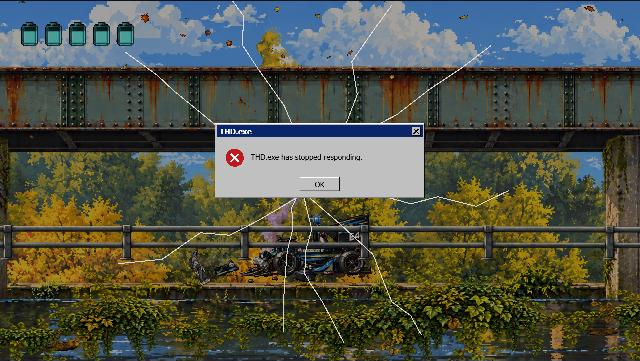
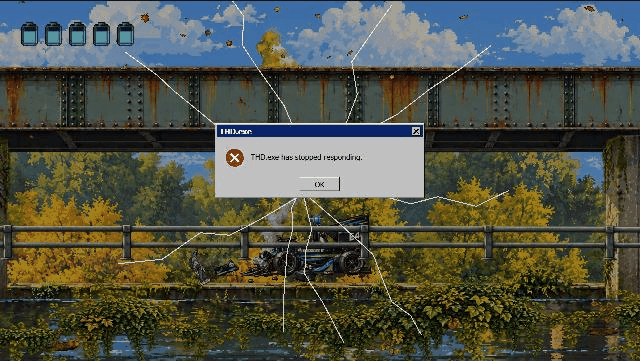
docs: record Region 1 landing, ram, chair moment, encounters and Jenny reads

diff --git a/docs/05-ENEMIES-AND-BOSSES.md b/docs/05-ENEMIES-AND-BOSSES.md
@@ -15,6 +15,7 @@ Every enemy is a real **autonomous** machine from THD – things that already dr
 | **Rover** | THD's autonomous vehicle project (ultrasonic + lidar), yellow wheels | Knee-high (≈ 25 px) | 3 | Patrols a deck. Spots you with its lidar, then charges in a straight line | Lidar turns red, rears up for 0.5 s | Jump over the charge and hit it from behind; guard works |
 | **Crab** | Autonomous six-legged hexapod robot | Waist-high, wide (≈ 40 px) | 4 | Creeps toward you; rears up and stabs with its front legs; can walk under decks | Front legs raised for 0.6 s | Step back, then punish; up-attack when it's on a deck above |
 | **Drone** | Large autonomous quadcopter | 1 m span (≈ 45 px), flies at head height | 8 (chair) / 3 (tray) | Hovers out of reach and drops screws or sparking batteries; dives when you're under it | Red eye flashes and it tilts | **Avoid it** in Region 1 (hide under girders). Kill it later with the tray. Coming back for drones is intended backtracking |
+| *In the game (P7):* | `enemies/rover.ts`, `crab.ts`, `drone.ts`, drawn by `rovers.ts` from the collision spawns | | | Rovers on the decks you walk (rc-0-0: rover-1, -4, -5; rc-1-0: rover-2, -3, -6; rc-2-0: rover-7); crab-1 on the high route, drone-1 over the low route | Crab and drone flash red and play their servo / hum during the tell | |
 | *Later:* Mutant plant | Toxic Garden | – | – | Stationary, spits sap | Mouth swells | Down-slam its head |
 
 All of them: contact damage 1 cell, white hit flash, 3–4 frame knockback, and they stop dead and leak black fluid when defeated.
@@ -69,7 +70,8 @@ Lex's read (A14), which the fight follows: Jenny is a **shielded** enemy. Her no
 - **Charge** does 2 cells. **Parts** do 1. Guarding a charge breaks the guard.
 - The arena is the Rusty Creek boss clearing: one flat girder floor, two walls, the creek below. Falling in is a hazard (−1 cell).
 - **Death:** she stalls, smokes and leaks black fluid. Dexter appears and absorbs it.
-- **In the game** (`enemies/jenny.ts`, `enemies/jennyBoss.ts`, #57): the arena comes from collision, not code: the `boss-gate` box's right edge is the left wall, which closes behind you once you're through, and the floor line under her `jenny` spawn ends at the right wall. Her hit box is the car body without the rear wing, 250 × 70 px inside the ~290 × 134 px sprite, so the hero's 96 px jump clears a charge. A revving Jenny also hurts on contact (1 cell). Clip lengths come from `boss-jenny*.anims.json`. Beating her emits `boss-defeated`, and the `Ending` scene takes over. Dying resets the fight. Dev: `?boss-test` spawns you at the gate.
+- **In the game** (`enemies/jenny.ts`, `enemies/jennyBoss.ts`, #57): the arena comes from collision, not code: the `boss-gate` box's right edge is the left wall, which closes behind you once you're through, and the floor line under her `jenny` spawn ends at the right wall. Her hit box is the car body under the cockpit, 250 × 56 px inside the ~290 × 134 px sprite, and her charge speeds (540 / 600 / 660 px/s) are tuned so a standing full jump (96 px) lets her pass under in the arena (`jumpable()` is unit-tested). A revving Jenny also hurts on contact (1 cell).
+- **What reads (P8, Alexander's playtest):** the **rev** shakes her, puffs exhaust from the tail and flashes her headlight – that is the tell. Her **charge** never passes through you without consequence: you are thrown up (520 px/s) and the way she drives, play the hurt clip, get the usual second of invulnerability, and she brakes to a third of her speed for 0.25 s with a hit-stop and a screen shake. Her **open back** glows orange at the tail – faint while she drives (hits from behind count), bright and pulsing while she is stunned, with the hazard light blinking over it. Every chair hit that lands flashes her white, shakes the screen a little and sparks; a hit on the **armoured nose** clanks, throws grey sparks and bounces you back. **Parts** bounce up to twice, then lie on the floor as hazards for 2.5 s and blink before they vanish. Clip lengths come from `boss-jenny*.anims.json`. Beating her emits `boss-defeated`, and the `Ending` scene takes over. Dying resets the fight. Dev: `?boss-test` spawns you at the gate.
 - What we took from Terraria's Wall of Flesh: one huge shape crossing the whole screen, very readable, and you know exactly what to do after seeing it once.
 
 ## Later bosses

diff --git a/docs/15-PROLOGUE-SLICE.md b/docs/15-PROLOGUE-SLICE.md
@@ -118,10 +118,10 @@ What the first build got wrong, in his words' order, and the workstream that own
 | P2 | It feels like walking *on top of* the world; no grass at the feet | The **hot-dog layering**: far background → far greenery → near greenery → the trail (where you walk) → a grass/plants strip *in front of the trail* that covers the feet → water, rocks → blurred close leaves. The trail carries surface effects (slippery, particles per material) | 7 layers + 6 terrain |
 | P3 | The cut-outs show: leaves, water edges and trees line up wrongly as the layers move | Every layer **rendered complete**: the parts hidden behind nearer layers are painted in (gpt-image-2.5 inpainting per plate), edges cleaned, more bands where the depth needs them | 7 layers |
 | P4 | You outrun Dexter; you spawn left of the entrance while he waits at it | Dexter **leads at the hero's pace** – never overtaken, hops ahead when you close in; the hero starts at the entrance | 8 Dexter |
-| P5 | After the 404 you land on the railway bridge; the cement road under it is gone; two pushes in a row (from behind, then Jenny from the front) confuse | Land on the **creek path**, the cement road under the rail bridge (the clean art has it); Jenny's ram reads as one clear event on that path; the region swap explains itself | 9 Region 1 |
+| P5 | After the 404 you land on the railway bridge; the cement road under it is gone; two pushes in a row (from behind, then Jenny from the front) confuse | Land on the **creek path**, the cement road under the rail bridge (the clean art has it); Jenny's ram reads as one clear event on that path; the region swap explains itself | 9 Region 1 – done in `feature/slice-region1` (landing on the path, one-event ram, crash crossing); the walk line on the path is provisional for 6 |
 | P6 | The hero's movement is fidgety in Rusty Creek; jump-spam feels slow and buggy; idles are stiff | **Hero motion polish**: find the creek jitter (sink/slope/stride on steel), fix jump buffering under spam, more idle life (breathing, poncho sway) | 10 hero motion |
-| P7 | The chair pops in, no idea how to attack; one rover and then nothing | A **pickup moment** (the hero picks it up, a wordless key/button glyph shows the attack); more encounters along the route | 9 Region 1 |
-| P8 | Jenny drives through you – no knockback, nothing happens; parts just fall; unclear how to hurt her | **Jenny reads**: real knockback, a clear tell, a glowing open back while stunned, hit flashes and screen shake, parts that bounce and threaten | 9 Region 1 |
+| P7 | The chair pops in, no idea how to attack; one rover and then nothing | A **pickup moment** (the hero picks it up, a wordless key/button glyph shows the attack); more encounters along the route | 9 Region 1 – done in `feature/slice-region1` (pick-up clip, glint, J/X glyph; 7 rovers, crab, drone) |
+| P8 | Jenny drives through you – no knockback, nothing happens; parts just fall; unclear how to hurt her | **Jenny reads**: real knockback, a clear tell, a glowing open back while stunned, hit flashes and screen shake, parts that bounce and threaten | 9 Region 1 – done in `feature/slice-region1` (throw + brake, rev tell, open back, hit flash/shake/spark, clank, bouncing parts) |
 
 | # | Workstream | Owns |
 | --- | --- | --- |

diff --git a/docs/03-STORY-AND-CAST.md b/docs/03-STORY-AND-CAST.md
@@ -73,9 +73,9 @@ Dexter is the 27 px plush (decision 41), drawn at depth 101 with a 1 px warm rim
 
 ## Region 1 story beats
 
-1. You land in **clean** Rusty Creek: the real creek, rails and the metal bridge. Quiet, no enemies, nothing wrong yet.
-2. On the bridge, **Jenny**, the driverless race car, comes out of nowhere and rams you. You fly back with the same cartoon knockback, and the anomaly activates: the region **turns** into the rust maze and you are back at its start ([02](02-GAME-DESIGN.md)).
-3. The maze is the real tutorial: jumping, climbing, ladders. A plywood chair lies by the path – **pick it up**. First fight: one autonomous rover.
+1. You land in **clean** Rusty Creek on the **creek path** – the cement walk along the water, under the rusted rail bridge. The bridge stays above you as the railway; you never walk on it. Quiet, no enemies, nothing wrong yet.
+2. Further along the path, **Jenny**, the driverless race car, comes down it towards you. One event, under 3 s before the crash window: first only her **headlights and engine** from beyond the right edge (the tell), then she rolls into view revving and smoking, charges, and hits you – you are thrown the way she drives, in the hurt clip, while she skids on. The frame breaks into the **crash** crossing ("THD.exe has stopped responding", cracks – not the 404's tear), and you land at the start of the rust maze ([02](02-GAME-DESIGN.md)). Only Dexter pushes you from behind; Jenny only ever comes from the front.
+3. The maze is the real tutorial: jumping, climbing, ladders. A plywood chair lies by the path with a **glint** over it – **pick it up**: the hero bends down for it (the four-frame `pick-up` clip), holds it up, and a wordless key/button glyph (J on a key cap, X on a pad button, a swing arc over both) floats over him until his first swing. Then the encounters: rovers on the decks you walk, a crab on the high route that raises its front legs before it stabs, and a drone over the low route that tilts and dives when you pass under it.
 4. Midway, at the first coffee machine: **Dexter is already sitting there.** He bows and sweats – sorry – and hands you the **pocket computer** and a muffin. No words.
 5. The boss clearing: **Jenny** again, now for real (see [enemies](05-ENEMIES-AND-BOSSES.md)).
 6. Jenny stalls and leaks black fluid. Dexter appears and **absorbs it**, a little too eagerly. He is visibly taller, and he hops off ahead of you. The jam slice ends here: the screen glitches and a "to be continued" error dialog appears.
